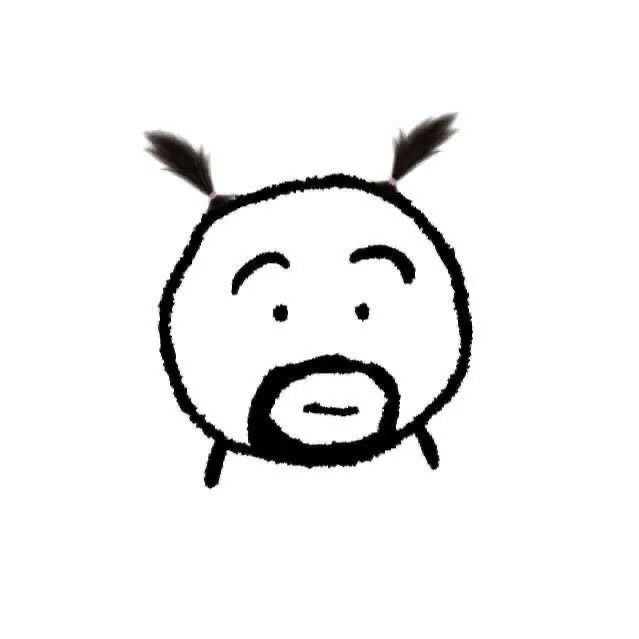
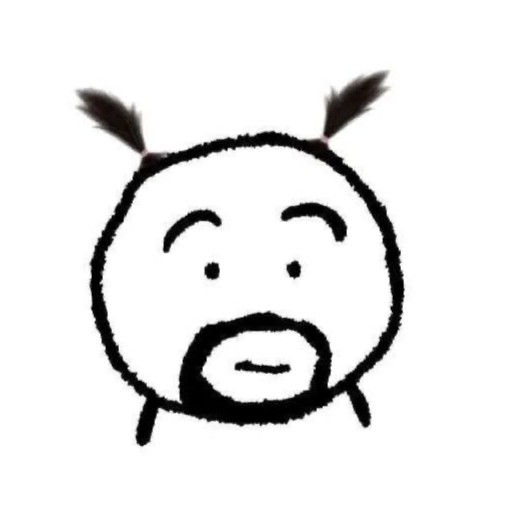
20260511-2

Changed region(s): [[0.125, 0.125, 0.8125, 0.875]]

diff --git a/_sass/abstracts/_variables.scss b/_sass/abstracts/_variables.scss
@@ -65,7 +65,8 @@ $topbar-height: 3rem !default;
 $search-max-width: 200px !default;
 $footer-height: 5rem !default;
 $footer-height-large: 6rem !default;
-$main-content-max-width: 1250px !default;
+
+$main-content-max-width: 1400px !default;
 
 $radius-sm: 6px !default;
 $radius-lg: 10px !default;
@@ -74,7 +75,7 @@ $back2top-size: 2.75rem !default;
 
 /* code block */
 
-$code-font-size: 0.95rem !default;
+$code-font-size: 1rem !default;
 $code-header-height: 2.25rem !default;
 $code-dot-size: 0.75rem !default;
 $code-dot-gap: 0.5rem !default;
@@ -89,18 +90,59 @@ $font-family-base: 'Hyundai Sans Text', 'Source Sans Pro', sans-serif !default;
 $font-family-heading: 'Hyundai Sans Head', Lato, sans-serif !default;
 
 /* =========================
+   Global Width Override
+========================= */
+
+#main-wrapper > .container,
+#topbar-wrapper > .container,
+#tail-wrapper > .container {
+  max-width: 92% !important;
+}
+
+#post-wrapper,
+.content {
+  max-width: 100% !important;
+}
+
+/* =========================
+   Avatar Fix
+========================= */
+
+#avatar {
+  padding: 0 !important;
+  overflow: hidden;
+
+  display: flex;
+  align-items: center;
+  justify-content: center;
+}
+
+#avatar img {
+  width: 100% !important;
+  height: 100% !important;
+
+  object-fit: contain !important;
+  object-position: center center !important;
+
+  transform: scale(1.08) translateY(2px);
+
+  background: transparent !important;
+}
+
+/* =========================
    Global Typography
 ========================= */
 
 html {
-  font-size: 17px;
+  font-size: 18.8px !important;
   scroll-behavior: smooth;
 }
 
 body {
+  font-size: 1.03rem !important;
   font-family: 'Hyundai Sans Text', sans-serif;
   font-weight: 400;
-  line-height: 1.85;
+  line-height: 1.9;
   letter-spacing: -0.015em;
 }
 
@@ -121,19 +163,19 @@ h6 {
 }
 
 h1 {
-  font-size: 2.6rem;
+  font-size: 2.8rem;
 }
 
 h2 {
-  font-size: 2.1rem;
+  font-size: 2.25rem;
 }
 
 h3 {
-  font-size: 1.7rem;
+  font-size: 1.85rem;
 }
 
 h4 {
-  font-size: 1.4rem;
+  font-size: 1.5rem;
 }
 
 /* =========================
@@ -141,16 +183,28 @@ h4 {
 ========================= */
 
 .post-content {
-  font-size: 1.08rem;
-  line-height: 1.95;
+  font-size: 1.12rem !important;
+  line-height: 2 !important;
 }
 
 .post-content p {
-  margin-bottom: 1.2rem;
+  margin-bottom: 1.3rem;
 }
 
 .post-content li {
-  margin-bottom: 0.35rem;
+  margin-bottom: 0.4rem;
+}
+
+/* =========================
+   Typography Inheritance
+========================= */
+
+p,
+li,
+span,
+td,
+th {
+  font-size: inherit;
 }
 
 /* =========================
@@ -164,7 +218,7 @@ h4 {
 #sidebar .site-title {
   font-family: 'Hyundai Sans Head', sans-serif;
   font-weight: 700;
-  font-size: 1.35rem;
+  font-size: 1.45rem;
 }
 
 /* =========================
@@ -182,7 +236,7 @@ h4 {
 code,
 pre,
 .highlight {
-  font-size: 0.95rem;
+  font-size: 0.98rem;
   border-radius: 10px;
 }
 
@@ -191,7 +245,7 @@ pre,
 ========================= */
 
 table {
-  font-size: 0.97rem;
+  font-size: 0.98rem;
 }
 
 /* =========================
@@ -200,23 +254,27 @@ table {
 
 @media all and (max-width: 768px) {
   html {
-    font-size: 16px;
+    font-size: 16.5px !important;
+  }
+
+  body {
+    font-size: 1rem !important;
   }
 
   .post-content {
-    font-size: 1.02rem;
-    line-height: 1.9;
+    font-size: 1.05rem !important;
+    line-height: 1.95 !important;
   }
 
   h1 {
-    font-size: 2.2rem;
+    font-size: 2.3rem;
   }
 
   h2 {
-    font-size: 1.8rem;
+    font-size: 1.95rem;
   }
 
   h3 {
-    font-size: 1.5rem;
+    font-size: 1.65rem;
   }
 }

diff --git a/_sass/custom.scss b/_sass/custom.scss
@@ -1,0 +1,39 @@
+/* =========================
+   Global Width Override
+========================= */
+
+#main-wrapper > .container,
+#topbar-wrapper > .container,
+#tail-wrapper > .container {
+  max-width: 92% !important;
+}
+
+#post-wrapper,
+.content {
+  max-width: 100% !important;
+}
+
+/* =========================
+   Avatar Fix
+========================= */
+
+#avatar {
+  padding: 0 !important;
+  overflow: hidden;
+
+  display: flex;
+  align-items: center;
+  justify-content: center;
+}
+
+#avatar img {
+  width: 100% !important;
+  height: 100% !important;
+
+  object-fit: contain !important;
+  object-position: center center !important;
+
+  transform: scale(1.08) translateY(2px);
+
+  background: transparent !important;
+}

diff --git a/_sass/main.scss b/_sass/main.scss
@@ -2,3 +2,4 @@
 @forward 'components';
 @forward 'layout';
 @forward 'pages';
+@forward 'custom';

diff --git a/_posts/2026-05-10-CVE-2026-34500.md b/_posts/2026-05-10-CVE-2026-34500.md
@@ -1,7 +1,7 @@
 ---
 title: CVE-2026-34500
 date: 2026-05-10 18:00:00 +0900
-categories: [Vulnerability Analysis]
+categories: [Vulnerability Analysis, CVE]
 tags: [LPE, CVE, DirtyPipe]
 ---
 